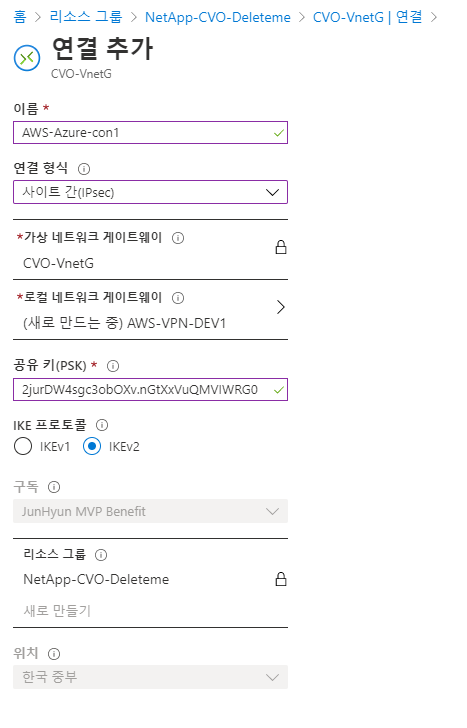
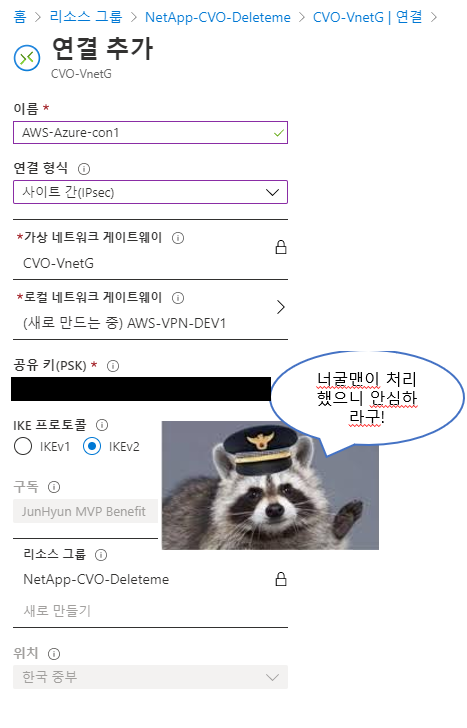
초안 1

Changed region(s): [[0.0, 0.4835, 0.9593, 0.7555], [0.9593, 0.5137, 1.0, 0.5742], [0.8994, 0.5742, 0.9593, 0.6044]]

diff --git a/_posts/2020-07-13-CloudOntap 환경 구성 .md b/_posts/2020-07-13-CloudOntap 환경 구성 .md
@@ -6,78 +6,209 @@ date: 2020-07-13 19:23
 tags: [AWS, Azure, NetApp, CVO]
 ---
 
-CVO 라이선스 발급이 늦어져서 어쩔수 없이 Azure-AWS 네트워크 환경구성부터 포스팅하게 되었습니다.
+CVO 라이선스 발급이 늦어져서 어쩔수 없이 Azure-AWS 네트워크 환경구성부터 포스팅하게 되었습니다. 먼저 Cloudmanager를 배포하시는것을 권장드립니다.
 
 ## CVO를 배포하기위한 네트워크 환경 만들기
 
 Azure와 AWS console을 양쪽에 켜두고 작업해야 하기떄문에 복잡할 수 있습니다.
 
-네트워크 구성에 고민하고 싶지 않다고 생각하시는 분은 김세준 차장님이 작성한 AWS-Azure VPN 테라폼으로 자동생성하기 게시물을 참조하여 기본설정으로 진행하시기 바랍니다.
+네트워크 구성에 고민하고 싶지 않다고 생각하시는 분은 김세준님이 작성한 AWS-Azure VPN 테라폼으로 자동생성하기 게시물을 참조하여 기본설정으로 진행하시기 바랍니다.
+
+[Azure와 AWS간 VPN 연결하기 (Terraform)](https://tech.cloudmt.co.kr/2019/08/09/Post/)
 
 아무래도 스토리지관련 서비스이다보니 네트워크가 빠르고 안정적인것이 필요합니다. 
 AWS DX와 같이 전용선 서비스를 사용하여 AWS 와 Azure 사이에 대역폭을 확보한다면 좀 더 강력한 성능을 확인 하실 수 있습니다. 
 
 본 게시글에서는 VPN으로 진행합니다. 
 
-## 환경 정보
+## 1. 환경
 
 ![AWS-Azure Arch](/files\blog\CVO\CVO-Architechure.png)
 
-구성할 VPN 
-BGP-ASN
-AWS : 64512( 기본 ) IP : 172.17.0.0/16
-Azure : 65515 ( 기본 ) IP : 10.1.0.0/16
+- 구성정보
+	- Network 정보
+		* AWS : 64512( 기본 ) IP : 172.17.0.0/16
+		* Azure : 65515 ( 기본 ) IP : 10.1.0.0/16
  
-서브넷
-Azure 
-- 10.1.0.0/24 default
-- 10.1.1.0/24 gatewaysubnet
+- 서브넷
+	- Azure 
+		- 10.1.0.0/24 default
+		- 10.1.1.0/24 gatewaysubnet
 
-AWS
-|Name|IPv4| CIDR|라우팅 테이블|
-|---|---|---|---|
-|wyahn-vpc-private-2c |172.17.10.0/24 |rtb-0e174629b72f9971b | wyahn-private-route|
-|wyahn-vpc-private-2b |172.17.8.0/24 |rtb-0e174629b72f9971b | wyahn-private-route|
-|wyahn-vpc-private-2a |172.17.9.0/24 |rtb-0e174629b72f9971b | wyahn-private-route|
-
-
+- AWS
+	|Name|IPv4| CIDR|라우팅 테이블|
+	|---|---|---|---|
+	|wyahn-vpc-private-2c |172.17.10.0/24 |rtb-0e174629b72f9971b | wyahn-private-route|
+	|wyahn-vpc-private-2b |172.17.8.0/24 |rtb-0e174629b72f9971b | wyahn-private-route|
+	|wyahn-vpc-private-2a |172.17.9.0/24 |rtb-0e174629b72f9971b | wyahn-private-route|
 
 
-## AZure
+## 2. AZure 가상 게이트웨이 생성
 
-가상네트워크게이트웨이 생성
+Vnet은 이미 생성하였다는 가정하에 진행합니다. <br>
+( Cloudmanager 생성 단원에서 생성한 Vnet을 활용합니다.)
 
-Vnet은 이미 생성하였다는 가정하에 진행합니다. ( Cloudmanager 생성 단원에서 생성한 Vnet을 활용합니다.)
-
-에저 포탈에 "가상 네트워크 게이트웨이 서비스"를 검색합니다.
-
+- 에저 포탈에 "가상 네트워크 게이트웨이 서비스"를 검색합니다.<br><br>
 ![VNG1](/files\blog\CVO\VNG1.png)
 
-가상 네트워크 게이트웨이를 생성합니다.
+- 가상 네트워크 게이트웨이를 생성합니다.<br><br>
 ![VNG2](/files\blog\CVO\VNG2.png)
 
-VPN 설정에서 정책기반과 경로기반이 있습니다. AWS는 경로기반으로 만 설정할 수 있습니다.
-한쪽이 정책기반이라고 하더라고 연결이 안되는것은 아니지만 SA가 하나밖에 안되기 때문에
-경로기반을 선택합니다.
+	VPN 설정에서 정책기반과 경로기반이 있습니다.<br> 
+	AWS는 경로기반으로 만 설정할 수 있습니다.<br>
+	한쪽이 정책기반이라고 하더라고 연결이 안되는것은 아니지만 <br>
+	SA가 하나밖에 안되기 때문에 경로기반을 선택합니다.
 
-### AWS Q&A 문서
-
+~~~
 Q: 현재 터널당 설정할 수 있는 IPsec 보안 연결(SA)의 수는 어떻게 됩니까?
 
 A: AWS VPN 서비스는 라우팅 기반 솔루션입니다. 따라서 라우팅 기반 구성을 사용하는 경우에는 SA 한도가 적용되지 않습니다. 또한, AWS VPN 서비스가 라우팅 기반 솔루션이므로, 정책 기반 솔루션을 사용하는 경우에는 단일 SA로 제한해야 합니다.
-
+~~~
+- BGP 구성 "사용안함"을 체크합니다.<br>
 ![VNG3](/files\blog\CVO\VNG3.png)
 
-### 주의 스크린샷은 BGP 구성이 사용으로 되어 있지만 사용하지 않음으로 변경해야 합니다.
-(사유 : AWS-Azure VPN 구성에서는 169.254.X.X 대역 제약사항 이슈로 BGP를 맺을 수 없습니다. 자세한 내용은 AWS와 Azure의 VPN 문서를 참고하세요)
+**주의 스크린샷은 BGP 구성이 사용으로 되어 있지만 사용하지 않음으로 변경해야 합니다.**<br>
+AWS-Azure VPN 구성에서는 169.254.X.X 대역 제약사항 이슈로 BGP 피어를 맺을 수 없었습니다.<br> 
 
+**함정카드 발동!**<br>
+Azure doc
+~~~
+Border Gateway Protocol - 사이트의 모든 연결이 BGP를 사용할 수 있음을 의미합니다. 결과적으로 링크 섹션에서 VPN 사이트의 각 링크에 대한 BGP 정보를 설정합니다. 
+Virtual WAN에서 BGP를 구성하는 것은 Azure Virtual Network Gateway VPN에서 BGP를 구성하는 것과 같습니다. 
+온-프레미스 BGP 피어 주소는 VPN 디바이스의 퍼블릭 IP 주소 또는 VPN 사이트의 VNet 주소 공간과 같으면 절대 안 됩니다. 
+VPN 디바이스에서 BGP 피어 IP에 다른 IP 주소를 사용하세요. 디바이스에서 루프백 인터페이스에 할당한 주소가 될 수 있습니다. 
+
+" 그러나 APIPA(169.254.x.x) 주소는 안 됩니다. "
+
+위치를 나타내는 해당 VPN 사이트에서 이 주소를 지정합니다. BGP 필수 조건은 Azure VPN Gateway의 BGP 정보를 참조하세요. 
+VPN 사이트 BGP 설정이 사용하도록 설정되면 항상 VPN 연결을 편집하여 BGP 매개 변수(링크의 피어링 IP 및 AS #)를 업데이트할 수 있습니다.
+~~~
+
+AWS DOC<br>
+~~~
+https://docs.aws.amazon.com/ko_kr/vpn/latest/s2svpn/VPNTunnels.html
+~~~
+
+- 체크한 상태로 만들었다면 구성에서 변경 가능합니다.
 ![VNG6](/files\blog\CVO\VNG6.png)
+![VNG4](/files\blog\CVO\VNG4.png)
 
-작성중...
+- 공용 IP를 주소를 복사하여 메모장에 기록합니다.<br>
+(만들어지는데 생각보다 오래걸립니다. 기다리지 말고 AWS콘솔로 넘어갑시다.) 
+![VNG5](/files\blog\CVO\VNG5.png)
+
+## AWS TGW 생성
+- 웹콘솔에서 VPC > TGW 를 선택합니다.<br><br>
+![VGW1](/files\blog\CVO\VGW1.png)
+- 기본값으로 생성합니다. (옵션설명은 생락한다!)<br><br>
+![VGW2](/files\blog\CVO\VGW2.png)
+
+- TGW 연결 생성 메뉴로 이동하여 연결생성 버튼을 누릅니다.<br>
+- 스크린샷에 나와있지 않지만 CGW(고객게이트웨이)가 없다면 NEW 라디오 박스를 체크 후 에저콘솔에서 생성된 IP를 등록해줍니다.
+- "Static" Check
+![VGW3](/files\blog\CVO\VGW3.png)
+
+- TGW의 VPN Connection이 생성되는지 확인!
+![VGW4](/files\blog\CVO\VGW4.png)
+
+- 상단 구성에서 pfSense를 선택하고 다운로드 받습니다.<br>
+(익숙한 장비가 conf가 있다면 그걸로 선택하셔도 무관합니다.)<br>
+![VGW5](/files\blog\CVO\VGW5.png)
+
+- 텍스트 문서가 다운로드되면 문서안의 각 터널 1 터널 2 에대한 Pre-shard Key 값을 기억합니다. 
+~~~
+Go to VPN-->IPSec. Add a new Phase1 entry (click + button )
+
+General information
+ a. Disabled : uncheck
+ b. Key Exchange version :V1
+ c. Internet Protocol : IPv4
+ d. Interface : WAN
+ e. Remote Gateway: 3.105.122.14
+ f. Description: Amazon-IKE-vpn-06f426171cdbd2271-0
+ 
+ Phase 1 proposal (Authentication)
+ a. Authentication Method: Mutual PSK
+ b. Negotiation mode : Main
+ c. My identifier : My IP address
+ d. Peer identifier : Peer IP address
+ e. Pre-Shared Key: 너굴맨이 처리했으니 안심하라구 (^^/)
 
 
+General information
+ a. Disabled : uncheck
+ b. Key Exchange version :V1
+ c. Internet Protocol : IPv4
+ d. Interface : WAN
+ e. Remote Gateway: 3.105.197.195
+ f. Description: Amazon-IKE-vpn-06f426171cdbd2271-1
+ 
+ Phase 1 proposal (Authentication)
+ a. Authentication Method: Mutual PSK
+ b. Negotiation mode : Main
+ c. My identifier : My IP address
+ d. Peer identifier : Peer IP address
+ e. Pre-Shared Key: 너굴맨이 처리했으니 안심하라구 (^^/)
+~~~
 
+IPsec VPN 연결에서 해당 키값이 있어야 터널연결이 가능합니다.
 
+## Azure connection 생성 설정
+- Azure 콘솔에서 연결을 검색하여 연결을 생성합니다.
+![AZ-Con1](/files\blog\CVO\AZ-Con1.png)
+- 로컬게이트웨이가 등록이 안되있을 것이기 때문에 게이트웨이 생성 버튼을 선택합니다. 
+- AWS VPN TXT 파일에 있던 Phase 1 의 Remote Gateway IP 값을 적어줍니다.
+- IP 주소는 AWS 네트워크 대역을 적어줍니다.
+![AZ-Con2](/files\blog\CVO\AZ-Con2.png)
+- 공유키에 너굴맨이 처리한 그것을 넣어줍니다.(상단 사진 참조)
+- 생성 버튼을 누르고 바로 Phase2도 연결합니다.(방법은 1과동일 값은 2로!)
 
+Phase1만 연결해도 문제는 없습니다만 AWS VPN은 한 커넥션 생성시 이중화를 위한 두개의 장비를 제공합니다. <br>
+AWS IPsec 터널이 무적이 아닙니다. <br>
+가끔 죽기도하기 때문에 2개를 줍니다. (메인터넌스를 한다던지 터널 스케일링이라던지 3600초마다 SA 갱신이라던지 등등등!!)<br>
+스토리지 서비스에서 네트워크의 안정성 확보를 위해서라도 이중화 꼭! 합시다.
+
+- 라우팅 테이블 생성하여 AZure 서브넷에 적용해줍니다.
+- 경로전파는 사용으로 해야합니다.( 안하면 수동으로 입력해야 되니까요 )
+![AZ-Con4](/files\blog\CVO\AZ-Con4.png)
+
+- 여기까지 완료하셨다면 아래와 같이 두개의 커넥션이 생성됩니다.
+![AZ-Con5](/files\blog\CVO\AZ-Con5.png)
+
+## AWS 라우팅 설정
+- 잠시 두 장비가 맺어지는 시간이 필요하기때문에 커피한잔 내라고 와서 아래와 같이 보면 성공입니다.
+![AZ-Con6](/files\blog\CVO\AZ-Con6.png)
+
+- TGW 라우팅테이블 메뉴 <br>
+(Azure 쪽 네트워크 대역을 알려주는 라우팅설정을 진행합니다.)<br>
+![TGW1](/files\blog\CVO\TGW1.png)
+- CIDR에 Azure 쪽 네트워크 대역을 적어줍니다.
+![TGW2](/files\blog\CVO\TGW2.png)
+
+- 아래와 같이 TGW가 VPN과 VPC 연결설정이 보인다면 성공입니다.
+(VPC와 TGW 연결 설정은 생략하였음 AWS TGW 문서를 참조해주세요)
+
+- VPC 서브넷에 할당되어 있는 라우팅테이블을 변경합니다. (VPC 웹콘솔 - 라우팅테이블) 
+![TGW3](/files\blog\CVO\TGW3.png)
+
+모든 설정이 끝났습니다.<br>
+이제 연결 TEST 를 진행해야합니다.<br>
+Azure 쪽에 클라우드매니저 VM을 배포하고 AWS 측에 TEST용 EC2를 생성하여 Ping TEST를 진행합니다.
+
+과연 잘됬을까요?
+
+![어림없는 소리!](/files\blog\CVO\어림도없지.png)
+
+트러블 슈팅을 해본 결과 <br>
+우리의 클라우드매니저가 Docker 이미지가 돌고 있는것이 확인됩니다.
+![Trapcard](/files\blog\CVO\Trapcard.png)
+
+그리고 잘 해결했습니다.<br>
+![Trapcard](/files\blog\CVO\Trapcard2.png)
+
+어떻게 해결했는지 궁금하시다면 <br>
+다음 포스팅 "클라우드 매니저 배포 및 볼륨생성" 을 읽어주세요
+
+고생하셨습니다.!
 
 
